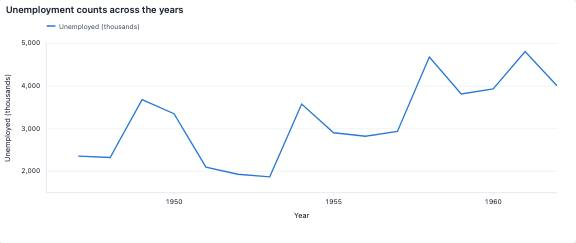
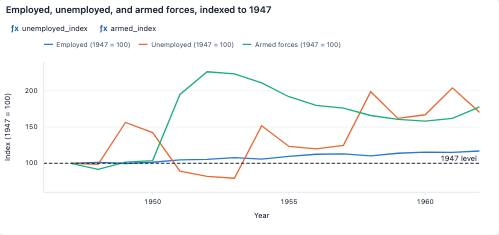
feat(daily): rewrite the Longley notebooks around recessions and trends

diff --git a/apps/demo/public/daily-viz/projects/longley/trending-levels.eda.md b/apps/demo/public/daily-viz/projects/longley/trending-levels.eda.md
@@ -1,68 +1,55 @@
-# A small employment benchmark contains several rising trends
+# Anything that rose in the 1950s correlates with anything else that rose
 
-**How similar are employment, population, and nominal output after rebasing their starting values?** Each row is one historical US annual observation.
+**Does employment track output, or do both just track time?** Each row is one year from 1947 to 1962 in the Longley benchmark, with employment, nominal GNP, population, and the GNP price deflator. Every series rises. In levels they all correlate near 0.98. The honest test is the year-on-year changes, and there the link between employment and output survives, though weaker.
 
 ```eda
 eda query=r
 employment:num=r.employment label="Employed (thousands)"
 gnp:num=r.gnp label="GNP ($M, nominal)"
-population:num=r.population label="Population 14+ (thousands)"
+deflator:num=r.deflator label="GNP deflator (1954 = 100)"
 year:num=r.year label="Year"
-employment_change:num=r.employment_change label="Change in employed (thousands/year)"
-gnp_change:num=r.gnp_change label="Change in GNP ($M/year)"
-employment_index:num=r.employment_index label="Employment index (1947 = 100)"
-gnp_index:num=r.gnp_index label="GNP index (1947 = 100)"
-population_index:num=r.population_index label="Population index (1947 = 100)"
+employment_change:num=r.employment_change label="Change in employed (thousands)"
+gnp_change:num=r.gnp_change label="Change in GNP ($M)"
+employment_index:num=r.employment_index label="Employed (1947 = 100)"
+gnp_index:num=r.gnp_index label="GNP (1947 = 100)"
+population_index:num=r.population_index label="Population (1947 = 100)"
 ```
 
-## 1. Give each series the same starting index
+## Three series, three slopes, one direction
 
-A common start is imposed by the transformation. Different subsequent slopes describe proportional movement from that reference.
+Indexed to 1947, nominal GNP reached 236.84 by 1962, population reached 120.88, and employment reached 116.96. The slopes differ by a factor of seven, but none of the three lines ever turns down for long, and that shared direction is all a levels correlation needs.
 
 ```eda
-line @nb-longley-trending-levels-chart-1 x=year y=employment_index,gnp_index,population_index title="Give each series the same starting index" x.title="Year" y.title="Employment index (1947 = 100) / Gnp index (1947 = 100) / Population index (1947 = 100)"
+line @nb-longley-trending-levels-chart-1 x=year y=employment_index,gnp_index,population_index title="Employment, GNP, and population, indexed to 1947" x.title="Year" y.title="Index (1947 = 100)" {
+  rule y=100 "1947 level"
+}
 ```
 
-## 2. The strong-looking levels relationship
+## In levels, employment and GNP correlate at 0.98
 
-Both measurements move through the same short historical span. A close cloud alone does not validate a prediction model.
+Each point is one year. The points lie close to the fitted line: employment and nominal GNP in levels had correlation 0.984. The price level does almost as well: employment and the GNP deflator had correlation 0.971, and nobody argues that prices create jobs. Sixteen years of growth will line up almost anything.
 
 ```eda
-scatter @nb-longley-trending-levels-chart-2 x=gnp y=employment title="The strong-looking levels relationship" x.title="GNP ($M, nominal)" y.title="Employed (thousands)"
+scatter @nb-longley-trending-levels-chart-2 x=gnp y=employment regression=linear title="Employment against nominal GNP, one point per year" x.title="GNP ($M, nominal)" y.title="Employed (thousands)" {
+  callout "1962" pick=max
+}
 ```
 
-**Finding.** Employment and nominal GNP in levels had correlation 0.984.
+## In changes, the link survives at 0.89
 
-## 3. Compare changes between adjacent years
-
-The first year has no prior observation and is omitted from the paired-change statistic. Differencing changes the question rather than simply improving the first chart.
+Take each year's change from the year before. The trend is gone, and what remains is whether a good year for output was a good year for jobs. It was: the annual changes had correlation 0.892. Employment fell in 4 of the fifteen years, and GNP fell in 2 of them, both years when employment also fell.
 
 ```eda
-scatter @nb-longley-trending-levels-chart-3 x=gnp_change y=employment_change title="Compare changes between adjacent years" x.title="Change in GNP ($M/year)" y.title="Change in employed (thousands/year)"
-```
-
-## 4. The distribution of annual employment changes
-
-With a small number of differences, bins are only a rough descriptive device. Use the source table to inspect the individual changes.
-
-```eda
-hist @nb-longley-trending-levels-chart-4 employment_change bins=8 title="The distribution of annual employment changes" x.title="Change in employed (thousands/year)" y.title="Rows"
-```
-
-**Finding.** Their valid annual changes had correlation 0.892.
-
-## 5. The rows behind the charts
-
-Sort a column or select rows to check any value above. Selections in a notebook stay with their own chart.
-
-```eda
-table @nb-longley-trending-levels-records year,employment,gnp,population,employment_change,gnp_change title="Records behind this comparison"
+scatter @nb-longley-trending-levels-chart-3 x=gnp_change y=employment_change regression=linear title="Annual change in employment against annual change in GNP" x.title="Change in GNP ($M)" y.title="Change in employed (thousands)" {
+  rule x=0
+  rule y=0 "No change in either"
+}
 ```
 
 ## Takeaway
 
-Indices make proportional movement comparable while hiding original scale. The paired changes offer a different test of whether the levels association is mainly a shared historical trend.
+Employment and output moved together in postwar America, and the changes say so at 0.89. The levels correlation of 0.98 says less than it looks: the deflator scores 0.97 by the same test. Difference first, then correlate.
 
 ## Limits
 
-This is a small historical regression benchmark, not a current labor-market dataset. GNP is nominal and source units are retained. Similar trends do not establish a stable causal employment model.
+Sixteen annual rows, so the changes correlation rests on fifteen pairs. GNP is nominal, which folds inflation into the output series. The Longley data was built to stress regression software, not to describe the economy.

diff --git a/apps/demo/public/daily-viz/projects/longley/different-denominators.eda.md b/apps/demo/public/daily-viz/projects/longley/different-denominators.eda.md
@@ -1,65 +1,58 @@
-# Unemployment swung 2.6-fold, with no labor force to divide by
+# Unemployment swung 2.6-fold while employment rose 17%
 
-**What can raw employment and unemployment counts tell you without a labor-force total?** Each row is one historical US annual observation.
+**How did American joblessness move in the fifteen years after the war?** Each row is one year from 1947 to 1962 in the Longley benchmark, with the number of people employed, unemployed, and in the armed forces, all in thousands. There is no labor-force total, so none of these can become a rate. The counts still tell a story: employment crept up while unemployment lurched.
 
 ```eda
 eda query=r
 employment:num=r.employment label="Employed (thousands)"
 unemployed:num=r.unemployed label="Unemployed (thousands)"
 armed:num=r.armed label="Armed forces (thousands)"
-population:num=r.population label="Population 14+ (thousands)"
 year:num=r.year label="Year"
 era:cat=r.era label="Era"
+employment_index:num=r.employment_index label="Employed (1947 = 100)"
+calc unemployed_index = unemployed / 2356 * 100
+calc armed_index = armed / 1590 * 100
+field unemployed_index label="Unemployed (1947 = 100)"
+field armed_index label="Armed forces (1947 = 100)"
 ```
 
-## 1. Unemployment counts across the years
+## Set all three counts to 100 in 1947
 
-This line is a count series. Calling it an unemployment rate would silently add a denominator the analysis has not verified.
+On a shared index, employment is nearly a flat line: it was 60,323 thousand in 1947 and 70,551 thousand in 1962. Unemployment and the armed forces swing around it. The armed forces more than doubled during the Korean War, reaching 3,594 thousand in 1952, and never fell back to the 1948 low of 1,456 thousand.
 
 ```eda
-line @nb-longley-different-denominators-chart-1 x=year y=unemployed title="Unemployment counts across the years" x.title="Year" y.title="Unemployed (thousands)"
+line @nb-longley-different-denominators-chart-1 x=year y=employment_index,unemployed_index,armed_index title="Employed, unemployed, and armed forces, indexed to 1947" x.title="Year" y.title="Index (1947 = 100)" {
+  rule y=100 "1947 level"
+}
 ```
 
-## 2. Armed-forces counts provide different context
+## Unemployment jumped in four recessions
 
-The second count has a different population meaning. Its separate panel avoids suggesting that the two series partition a complete labor force.
+The raw count shows where the swings come from. Unemployment fell to 1,870 thousand in 1953 and reached 4,806 thousand in 1961, 2.6 times as many people. Each jump lines up with an NBER recession: 1949, 1954, 1958, and 1961. The 1958 jump was the sharpest, and the count never returned to its 1950s lows.
 
 ```eda
-line @nb-longley-different-denominators-chart-2 x=year y=armed title="Armed-forces counts provide different context" x.title="Year" y.title="Armed forces (thousands)"
+line @nb-longley-different-denominators-chart-2 x=year y=unemployed title="Unemployed, thousands, 1947 to 1962" x.title="Year" y.title="Unemployed (thousands)" {
+  band x=1948.83..1949.75 "1949"
+  band x=1953.5..1954.33 "1954"
+  band x=1957.58..1958.25 "1958"
+  band x=1960.25..1961.08
+  callout "1961: 4,806 thousand" pick=max offset=-150,24
+  callout "1953: 1,870 thousand" pick=min
+}
 ```
 
-**Finding.** The smallest recorded unemployment count was 1,870 source count units.
+## Both counts rose, so neither is a rate
 
-## 3. Employment and unemployment can both move
-
-A two-count plot makes the changing scale of the economy relevant. There is no identity requiring the two plotted numbers to sum to a constant.
+Each point is one year, placed by its employed and unemployed counts and colored by era. The later years sit up and to the right: mean unemployment was 2,649 thousand from 1947 to 1954 and 3,738 thousand from 1955 to 1962, while employment rose through both eras. More people working and more people looking for work are not in tension; the population was growing.
 
 ```eda
-scatter @nb-longley-different-denominators-chart-3 x=employment y=unemployed color=era title="Employment and unemployment can both move" x.title="Employed (thousands)" y.title="Unemployed (thousands)"
-```
-
-## 4. Population is context, not a rate denominator
-
-Population does not establish who participates in the labor force. This view describes scale without converting the ratio into an official labor statistic.
-
-```eda
-scatter @nb-longley-different-denominators-chart-4 x=population y=unemployed title="Population is context, not a rate denominator" x.title="Population 14+ (thousands)" y.title="Unemployed (thousands)"
-```
-
-**Finding.** The largest recorded unemployment count was 4,806 source count units.
-
-## 5. The rows behind the charts
-
-Sort a column or select rows to check any value above. Selections in a notebook stay with their own chart.
-
-```eda
-table @nb-longley-different-denominators-records year,employment,unemployed,armed,population title="Records behind this comparison"
+scatter @nb-longley-different-denominators-chart-3 x=employment y=unemployed color=era title="Unemployed against employed, one point per year" x.title="Employed (thousands)" y.title="Unemployed (thousands)"
 ```
 
 ## Takeaway
 
-A dashboard can be useful without manufacturing a familiar metric. Keep the count series separate, name their units, and make the missing denominator an analytical limit.
+Between 1947 and 1962 the number of Americans employed grew by a sixth, and the number unemployed in the worst year was two and a half times the best. Read the second number against the first, not alone: a bigger workforce has more of everyone in it.
 
 ## Limits
 
-The selected columns do not provide a verified labor-force denominator for constructing a standard unemployment rate. Population is not a substitute. These source counts belong to an old benchmark vintage.
+Sixteen annual rows from a 1967 regression benchmark, in the vintage Longley used. The file has no labor-force total, so no unemployment rate can be built from it, and the population column counts everyone aged 14 and over, not participants.

diff --git a/apps/demo/public/daily-viz/projects/danish/rate-spread.eda.md b/apps/demo/public/daily-viz/projects/danish/rate-spread.eda.md
@@ -34,7 +34,7 @@ line @nb-danish-rate-spread-chart-2 x=date y=spread_pct title="Bond rate minus d
 
 ## After 1981 the typical gap narrowed by 2.5 points
 
-Split the quarters at 1981 and compare the boxes. The median spread from 1974 to 1980 was 7.51 points; from 1981 to 1987 it was 4.96 points. The later box also reaches lower: every spread under four points comes after 1983.
+Split the quarters at 1981 and compare the boxes. The median spread from 1974 to 1980 was 7.51 points; from 1981 to 1987 it was 4.96 points. The later box also reaches lower: every spread under four points comes from 1985 on.
 
 ```eda
 boxplot @nb-danish-rate-spread-chart-3 spread_pct color=era title="Bond minus deposit rate, by era" y.title="Bond minus deposit rate (points)"
